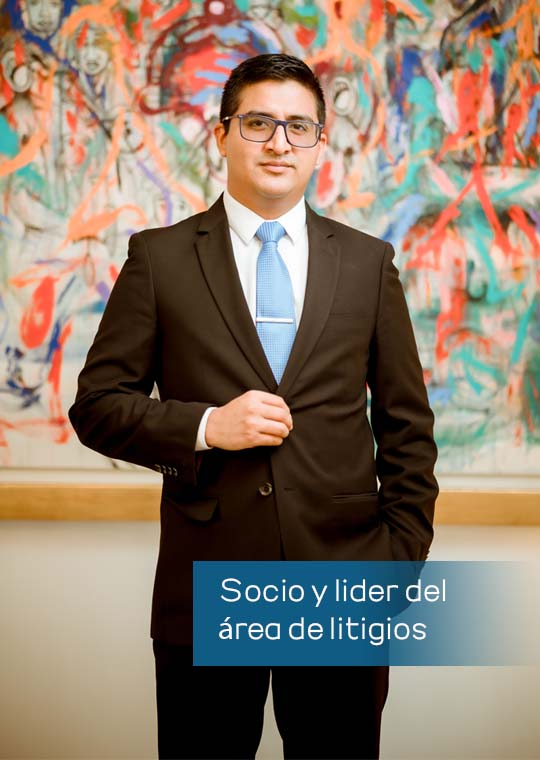
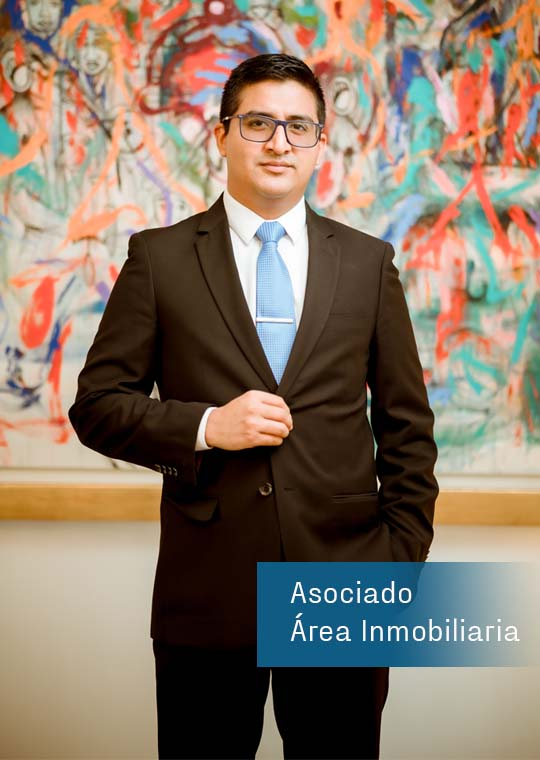
agregando industrias

Changed region(s): [[0.3556, 0.7263, 0.9778, 0.8776]]

diff --git a/src/app/layout/componentes/list-images/list-images.component.html b/src/app/layout/componentes/list-images/list-images.component.html
@@ -1,0 +1,153 @@
+<div class="px-4 my-20">
+  <h2
+    class="text-2xl sm:text-3xl md:text-4xl text-gray-700 font-semibold mb-4 leading-tight font-subtitulo border-b-4 inline border-yellow-400"
+  >
+    INDUSTRIAS
+  </h2>
+  <div class="grid grid-cols-1 md:grid-cols-5 my-10">
+    <div class="flex items-center justify-center bg-gray-200">
+      <div class="relative">
+        <img src="assets/images/industrias/Grupo_266.png" alt="" />
+        <div class="absolute inset-0 flex items-center justify-center">
+          <span class="text-white text-2xl font-bold">Inmobiliario</span>
+        </div>
+      </div>
+    </div>
+    <div class="flex items-center justify-center bg-gray-200">
+      <div class="relative">
+        <img src="assets/images/industrias/Grupo_267.png" alt="" />
+        <div class="absolute inset-0 flex items-center justify-center">
+          <span class="text-white text-2xl font-bold">Construcción</span>
+        </div>
+      </div>
+    </div>
+    <div class="flex items-center justify-center bg-gray-200">
+      <div class="relative">
+        <img src="assets/images/industrias/Grupo_268.png" alt="" />
+        <div class="absolute inset-0 flex items-center justify-center">
+          <span class="text-white text-2xl font-bold">Salud</span>
+        </div>
+      </div>
+    </div>
+    <div class="flex items-center justify-center bg-gray-200">
+      <div class="relative">
+        <img src="assets/images/industrias/Grupo_269.png" alt="" />
+        <div class="absolute inset-0 flex items-center justify-center">
+          <span class="text-white text-2xl font-bold">Farmaceutico</span>
+        </div>
+      </div>
+    </div>
+    <div class="flex items-center justify-center bg-gray-200">
+      <div class="relative">
+        <img src="assets/images/industrias/Grupo_270.png" alt="" />
+        <div class="absolute inset-0 flex items-center justify-center">
+          <span class="text-white text-2xl font-bold">Telecomunicaciones</span>
+        </div>
+      </div>
+    </div>
+    <div class="flex items-center justify-center bg-gray-200">
+      <div class="relative">
+        <img src="assets/images/industrias/Grupo_272.png" alt="" />
+        <div class="absolute inset-0 flex items-center justify-center">
+          <span class="text-white text-2xl font-bold">Alimentación</span>
+        </div>
+      </div>
+    </div>
+    <div class="flex items-center justify-center bg-gray-200">
+      <div class="relative">
+        <img src="assets/images/industrias/Grupo_273.png" alt="" />
+        <div class="absolute inset-0 flex items-center justify-center">
+          <span class="text-white text-2xl font-bold">Retail</span>
+        </div>
+      </div>
+    </div>
+    <div class="flex items-center justify-center bg-gray-200">
+      <div class="relative">
+        <img src="assets/images/industrias/Grupo_274.png" alt="" />
+        <div class="absolute inset-0 flex items-center justify-center">
+          <span class="text-white text-2xl font-bold">Agroindustria</span>
+        </div>
+      </div>
+    </div>
+    <div class="flex items-center justify-center bg-gray-200">
+      <div class="relative">
+        <img src="assets/images/industrias/Grupo_275.png" alt="" />
+        <div class="absolute inset-0 flex items-center justify-center">
+          <span class="text-white text-2xl font-bold">Consumo masivo</span>
+        </div>
+      </div>
+    </div>
+    <div class="flex items-center justify-center bg-gray-200">
+      <div class="relative">
+        <img src="assets/images/industrias/Grupo_276.png" alt="" />
+        <div class="absolute inset-0 flex items-center justify-center">
+          <span class="text-white text-2xl font-bold">Educación</span>
+        </div>
+      </div>
+    </div>
+    <div class="flex items-center justify-center bg-gray-200">
+      <div class="relative">
+        <img src="assets/images/industrias/Grupo_277.png" alt="" />
+        <div class="absolute inset-0 flex items-center justify-center">
+          <span class="text-white text-2xl font-bold">Minería</span>
+        </div>
+      </div>
+    </div>
+    <div class="flex items-center justify-center bg-gray-200">
+      <div class="relative">
+        <img src="assets/images/industrias/Grupo_278.png" alt="" />
+        <div class="absolute inset-0 flex items-center justify-center">
+          <span class="text-white text-2xl font-bold">Hostería</span>
+        </div>
+      </div>
+    </div>
+    <div class="flex items-center justify-center bg-gray-200">
+      <div class="relative">
+        <img src="assets/images/industrias/Grupo_279.png" alt="" />
+        <div class="absolute inset-0 flex items-center justify-center">
+          <span class="text-white text-2xl font-bold">Turismo</span>
+        </div>
+      </div>
+    </div>
+    <div class="flex items-center justify-center bg-gray-200">
+      <div class="relative">
+        <img src="assets/images/industrias/Grupo_280.png" alt="" />
+        <div class="absolute inset-0 flex items-center justify-center">
+          <span class="text-white text-2xl font-bold">Private Equitymo</span>
+        </div>
+      </div>
+    </div>
+    <div class="flex items-center justify-center bg-gray-200">
+      <div class="relative">
+        <img src="assets/images/industrias/Grupo_281.png" alt="" />
+        <div class="absolute inset-0 flex items-center justify-center">
+          <span class="text-white text-2xl font-bold">Venture capital</span>
+        </div>
+      </div>
+    </div>
+    <div class="flex items-center justify-center bg-gray-200">
+      <div class="relative">
+        <img src="assets/images/industrias/Grupo_282.png" alt="" />
+        <div class="absolute inset-0 flex items-center justify-center">
+          <span class="text-white text-2xl font-bold">Patrimonio familiar</span>
+        </div>
+      </div>
+    </div>
+    <div class="flex items-center justify-center bg-gray-200">
+      <div class="relative">
+        <img src="assets/images/industrias/Grupo_283.png" alt="" />
+        <div class="absolute inset-0 flex items-center justify-center">
+          <span class="text-white text-2xl font-bold">Industria musical</span>
+        </div>
+      </div>
+    </div>
+    <div class="flex items-center justify-center bg-gray-200">
+      <div class="relative">
+        <img src="assets/images/industrias/Grupo_284.png" alt="" />
+        <div class="absolute inset-0 flex items-center justify-center">
+          <span class="text-white text-2xl font-bold">Deporte</span>
+        </div>
+      </div>
+    </div>
+  </div>
+</div>

diff --git a/src/app/layout/componentes/carousel-owl-2/carousel-owl-2.component.html b/src/app/layout/componentes/carousel-owl-2/carousel-owl-2.component.html
@@ -230,4 +230,89 @@
       </div>
     </div>
   </ng-template>
+  <ng-template carouselSlide>
+    <div class="w-full px-4 md:px-12 mb-5">
+      <div class="flex flex-col justify-center">
+        <div
+          class="group h-96 md:h-[400px] mb-10 w-full md:w-[300px] [perspective:1000px]"
+        >
+          <div
+            class="relative h-full w-full rounded-xl transition-all duration-500"
+          >
+            <div class="absolute inset-0">
+              <img
+                class="h-full w-full rounded-xl object-cover"
+                src="assets/images/socio_12.jpg"
+              />
+              <h3 class="text-center text-lg sm:text-3xl">Allison Trelles</h3>
+            </div>
+          </div>
+        </div>
+      </div>
+    </div>
+  </ng-template>
+  <ng-template carouselSlide>
+    <div class="w-full px-4 md:px-12 mb-5">
+      <div class="flex flex-col justify-center">
+        <div
+          class="group h-96 md:h-[400px] mb-10 w-full md:w-[300px] [perspective:1000px]"
+        >
+          <div
+            class="relative h-full w-full rounded-xl transition-all duration-500"
+          >
+            <div class="absolute inset-0">
+              <img
+                class="h-full w-full rounded-xl object-cover"
+                src="assets/images/socio_13.jpg"
+              />
+              <h3 class="text-center text-lg sm:text-3xl">Johan Serrano</h3>
+            </div>
+          </div>
+        </div>
+      </div>
+    </div>
+  </ng-template>
+  <ng-template carouselSlide>
+    <div class="w-full px-4 md:px-12 mb-5">
+      <div class="flex flex-col justify-center">
+        <div
+          class="group h-96 md:h-[400px] mb-10 w-full md:w-[300px] [perspective:1000px]"
+        >
+          <div
+            class="relative h-full w-full rounded-xl transition-all duration-500"
+          >
+            <div class="absolute inset-0">
+              <img
+                class="h-full w-full rounded-xl object-cover"
+                src="assets/images/socio_14.jpg"
+              />
+              <h3 class="text-center text-lg sm:text-3xl">José Raunelli</h3>
+            </div>
+          </div>
+        </div>
+      </div>
+    </div>
+  </ng-template>
+
+  <ng-template carouselSlide>
+    <div class="w-full px-4 md:px-12 mb-5">
+      <div class="flex flex-col justify-center">
+        <div
+          class="group h-96 md:h-[400px] mb-10 w-full md:w-[300px] [perspective:1000px]"
+        >
+          <div
+            class="relative h-full w-full rounded-xl transition-all duration-500"
+          >
+            <div class="absolute inset-0">
+              <img
+                class="h-full w-full rounded-xl object-cover"
+                src="assets/images/socio_15.jpg"
+              />
+              <h3 class="text-center text-lg sm:text-3xl">Ximena Márquez</h3>
+            </div>
+          </div>
+        </div>
+      </div>
+    </div>
+  </ng-template>
 </owl-carousel-o>

diff --git a/src/app/pages/vista/inicio/inicio.component.ts b/src/app/pages/vista/inicio/inicio.component.ts
@@ -11,6 +11,7 @@ import { BannerContenido1Component } from 'src/app/layout/componentes/banner-con
 import { BannerContenido2Component } from 'src/app/layout/componentes/banner-contenido-2/banner-contenido-2.component';
 import { SubtituloParrafo2Component } from 'src/app/layout/componentes/subtitulo-parrafo-2/subtitulo-parrafo-2.component';
 import { SectionForm1Component } from 'src/app/layout/componentes/section-form-1/section-form-1.component';
+import { ListImagesComponent } from 'src/app/layout/componentes/list-images/list-images.component';
 
 @Component({
   selector: 'app-inicio',
@@ -27,6 +28,7 @@ import { SectionForm1Component } from 'src/app/layout/componentes/section-form-1
     BannerContenido2Component,
     SubtituloParrafo2Component,
     SectionForm1Component,
+    ListImagesComponent,
   ],
   templateUrl: './inicio.component.html',
   styleUrl: './inicio.component.css',

diff --git a/src/app/layout/componentes/list-images/list-images.component.spec.ts b/src/app/layout/componentes/list-images/list-images.component.spec.ts
@@ -1,0 +1,23 @@
+import { ComponentFixture, TestBed } from '@angular/core/testing';
+
+import { ListImagesComponent } from './list-images.component';
+
+describe('ListImagesComponent', () => {
+  let component: ListImagesComponent;
+  let fixture: ComponentFixture<ListImagesComponent>;
+
+  beforeEach(async () => {
+    await TestBed.configureTestingModule({
+      imports: [ListImagesComponent]
+    })
+    .compileComponents();
+    
+    fixture = TestBed.createComponent(ListImagesComponent);
+    component = fixture.componentInstance;
+    fixture.detectChanges();
+  });
+
+  it('should create', () => {
+    expect(component).toBeTruthy();
+  });
+});

diff --git a/src/app/pages/vista/inicio/inicio.component.html b/src/app/pages/vista/inicio/inicio.component.html
@@ -1,5 +1,6 @@
 <app-subtitulo-parrafo-1></app-subtitulo-parrafo-1>
 <app-feature-2></app-feature-2> <app-services-2></app-services-2>
+<app-list-images></app-list-images>
 <app-banner-contenido-2></app-banner-contenido-2>
 <app-subtitulo-parrafo-2></app-subtitulo-parrafo-2>
 <app-card-info></app-card-info><app-carousel-owl-2></app-carousel-owl-2>

diff --git a/src/app/layout/componentes/list-images/list-images.component.ts b/src/app/layout/componentes/list-images/list-images.component.ts
@@ -1,0 +1,12 @@
+import { Component } from '@angular/core';
+
+@Component({
+  selector: 'app-list-images',
+  standalone: true,
+  imports: [],
+  templateUrl: './list-images.component.html',
+  styleUrl: './list-images.component.css'
+})
+export class ListImagesComponent {
+
+}
